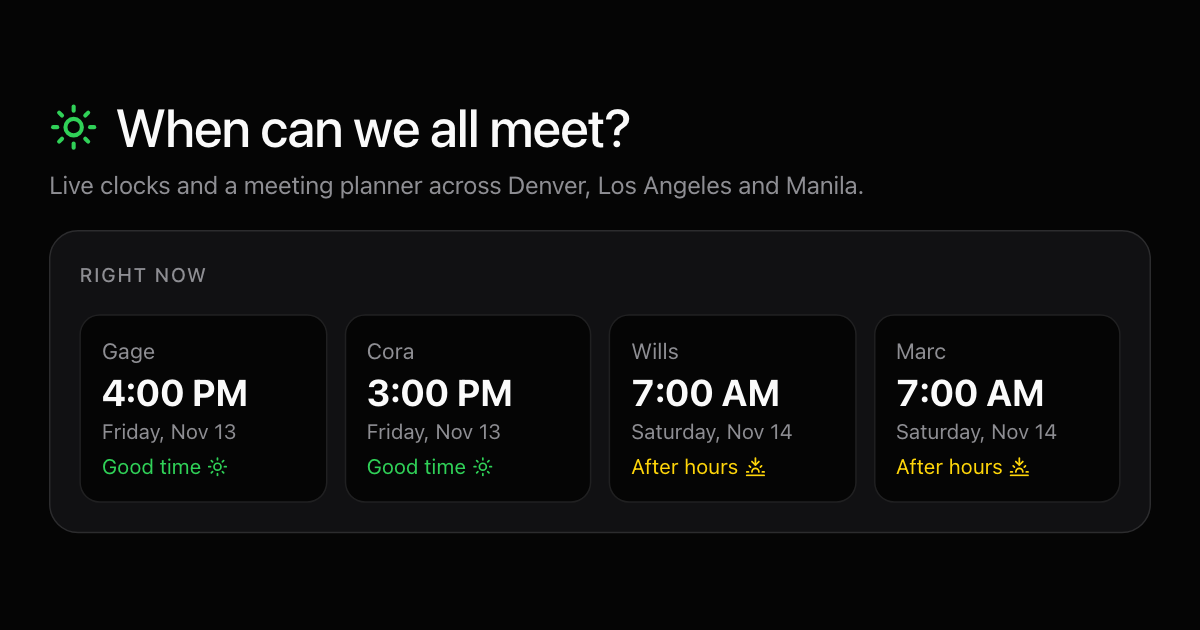
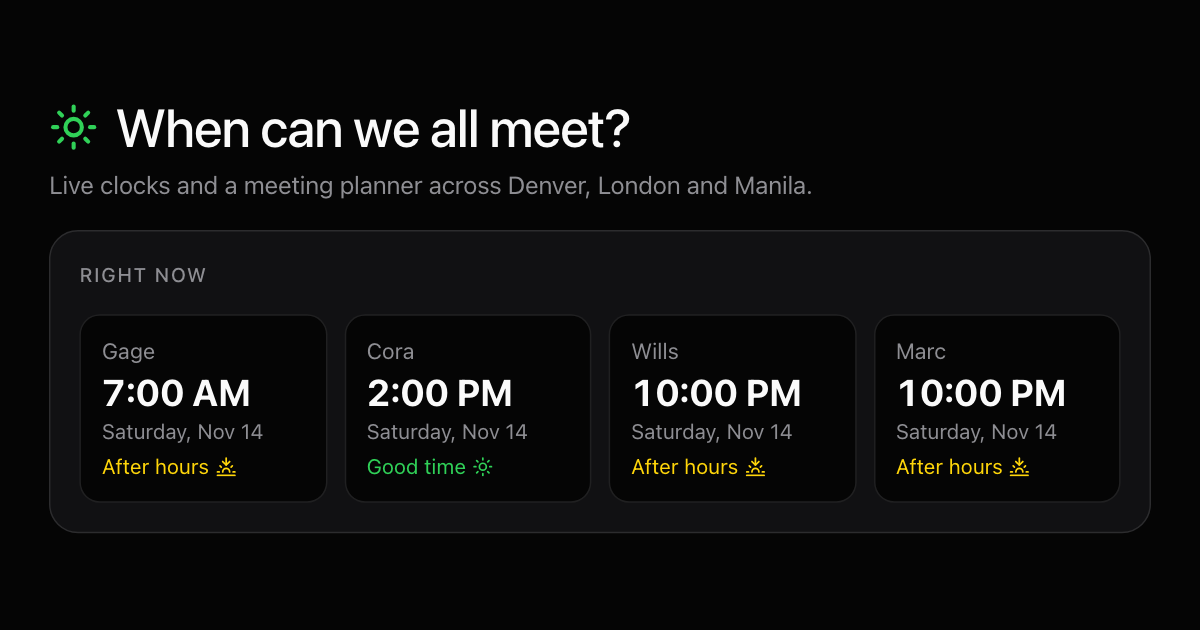
Move Cora to London time
Cora is 8 hours behind Manila, so use Europe/London. Update page
description and the link preview image to Denver, London and Manila.

diff --git a/index.html b/index.html
@@ -7,21 +7,21 @@
   <meta name="theme-color" content="#050505" media="(prefers-color-scheme: dark)">
   <meta name="theme-color" content="#f5f5f7" media="(prefers-color-scheme: light)">
   <title>Team Overlap</title>
-  <meta name="description" content="Live clocks and a meeting planner across Denver, Los Angeles and Manila.">
+  <meta name="description" content="Live clocks and a meeting planner across Denver, London and Manila.">
   <link rel="icon" href="favicon.svg" type="image/svg+xml">
   <link rel="icon" href="favicon-32.png" type="image/png" sizes="32x32">
   <link rel="apple-touch-icon" href="apple-touch-icon.png">
   <meta property="og:type" content="website">
   <meta property="og:url" content="https://fwancis9.github.io/team-overlap/">
   <meta property="og:title" content="When can we all meet?">
-  <meta property="og:description" content="Live clocks and a meeting planner across Denver, Los Angeles and Manila.">
+  <meta property="og:description" content="Live clocks and a meeting planner across Denver, London and Manila.">
   <meta property="og:image" content="https://fwancis9.github.io/team-overlap/og-image.png">
   <meta property="og:image:width" content="1200">
   <meta property="og:image:height" content="630">
   <meta property="og:image:alt" content="Right now: live clocks for Gage, Cora, Wills and Marc with who is in work hours.">
   <meta name="twitter:card" content="summary_large_image">
   <meta name="twitter:title" content="When can we all meet?">
-  <meta name="twitter:description" content="Live clocks and a meeting planner across Denver, Los Angeles and Manila.">
+  <meta name="twitter:description" content="Live clocks and a meeting planner across Denver, London and Manila.">
   <meta name="twitter:image" content="https://fwancis9.github.io/team-overlap/og-image.png">
 <link rel="preconnect" href="https://fonts.googleapis.com">
 <link rel="preconnect" href="https://fonts.gstatic.com" crossorigin>

diff --git a/script.js b/script.js
@@ -15,7 +15,7 @@
   ];
   const PEOPLE = [
     { name: "Gage", zone: "America/Denver" },
-    { name: "Cora", zone: "America/Los_Angeles" },
+    { name: "Cora", zone: "Europe/London" },
     { name: "Wills", zone: "Asia/Manila" },
     { name: "Marc", zone: "Asia/Manila" }
   ];
